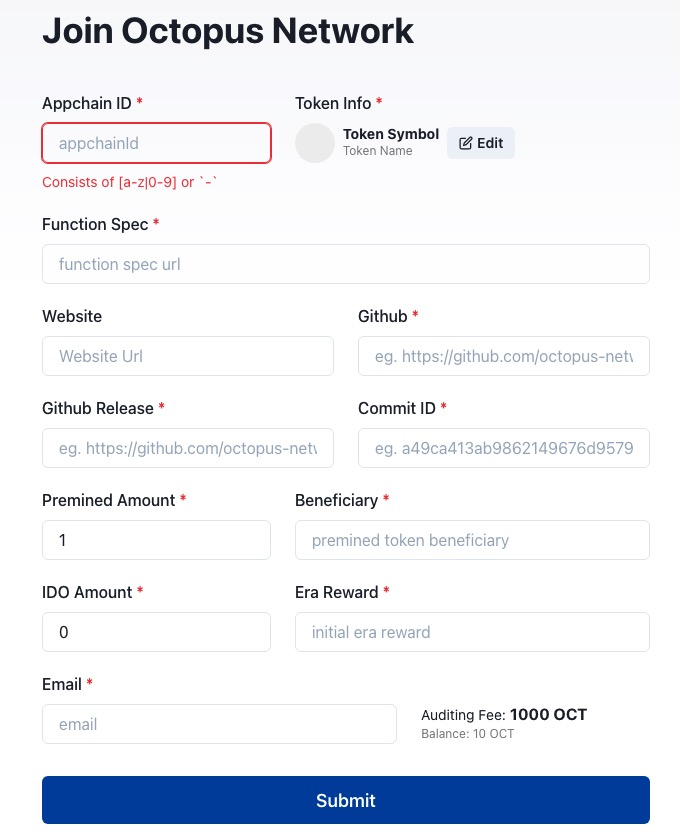
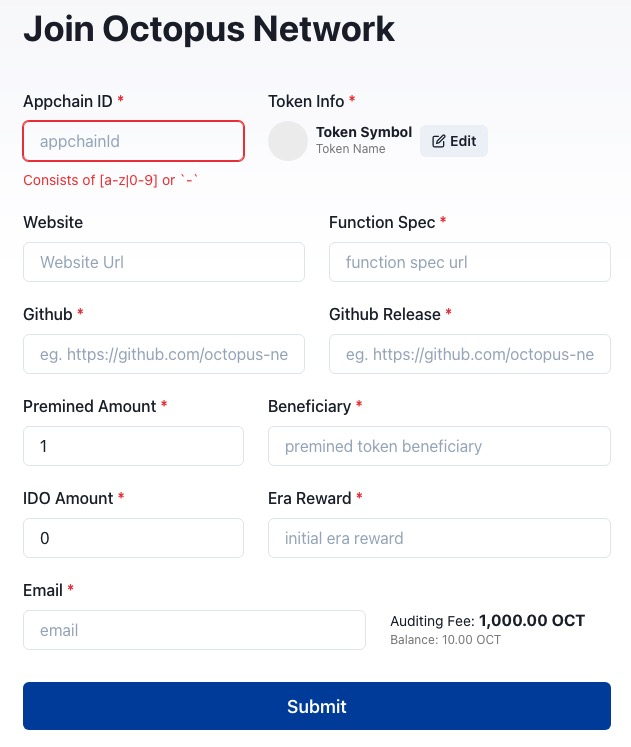
delete commit id for appchain register

diff --git a/src/cn/guides/appchain-register.md b/src/cn/guides/appchain-register.md
@@ -11,15 +11,14 @@
 2. 导航到 **Appchains** 页面，点击 **+ Appchain** 按钮，填写以下内容：
     * **Appchain ID**: 3-20个字符，由小写字母、数字和连字符`-`组成，不能以数字开头，开头和结尾不能使用连字符`-`，也就是要符合正则表达式 `[a-z]([-a-z0-9]*[a-z0-9])?`
     * **Token Info**
-        - **Token Name**: The name of the appchain native token
-        - **Token Symbol**: The symbol of the appchain native token
-        - **Icon**: The icon url of the appchain native token
-        - **Decimals**: The decimals of the appchain native token
-    * **Function Spec**: The url of the appchain functional specification file
+        - **Token Name**: 应用链原生通证的名称
+        - **Token Symbol**: 应用链原生通证的符号
+        - **Icon**: 应用链原生通证的图标链接
+        - **Decimals**: 应用链原生通证的精度
     * **Website**: 应用链官网
+    * **Function Spec**: 应用链功能规范文件的链接
     * **Github**: 应用链的 Github 仓库
     * **Github Release**: 应用链上线章鱼网络，发布版本的Github URL
-    * **Commit ID**: 应用链上线章鱼网络，发布版本的 Github 提交哈希
     * **Premined Amount**: 应用链初始发行的原生通证数量
     * **Beneficiary**: NEAR 钱包账户，应用链用来接受初始发行的原生通证
     * **IDO Amount**: 在主网上线前，应用链通过去中心化交易所提供流动性的通证数量

diff --git a/src/guides/appchain-register.md b/src/guides/appchain-register.md
@@ -15,11 +15,10 @@
         - **Token Symbol**: The symbol of the appchain native token
         - **Icon**: The icon url of the appchain native token
         - **Decimals**: The decimals of the appchain native token
-    * **Function Spec**: The url of the appchain functional specification file
     * **Website**: The official website of the Appchain
+    * **Function Spec**: The url of the appchain functional specification file
     * **Github**: The Github repository of AppChain
     * **Github Release**: The Github URL of the release of the Appchain
-    * **Commit ID**: The Git commit hash URL of the Appchain release
     * **Premined Amount**: The Appchain native token amount of the initial issues
     * **Beneficiary**: The NEAR account to receive the premined native token
     * **IDO Amount**: The Appchain token amounts through the DEX offer liquidity before the mainnet goes live 
